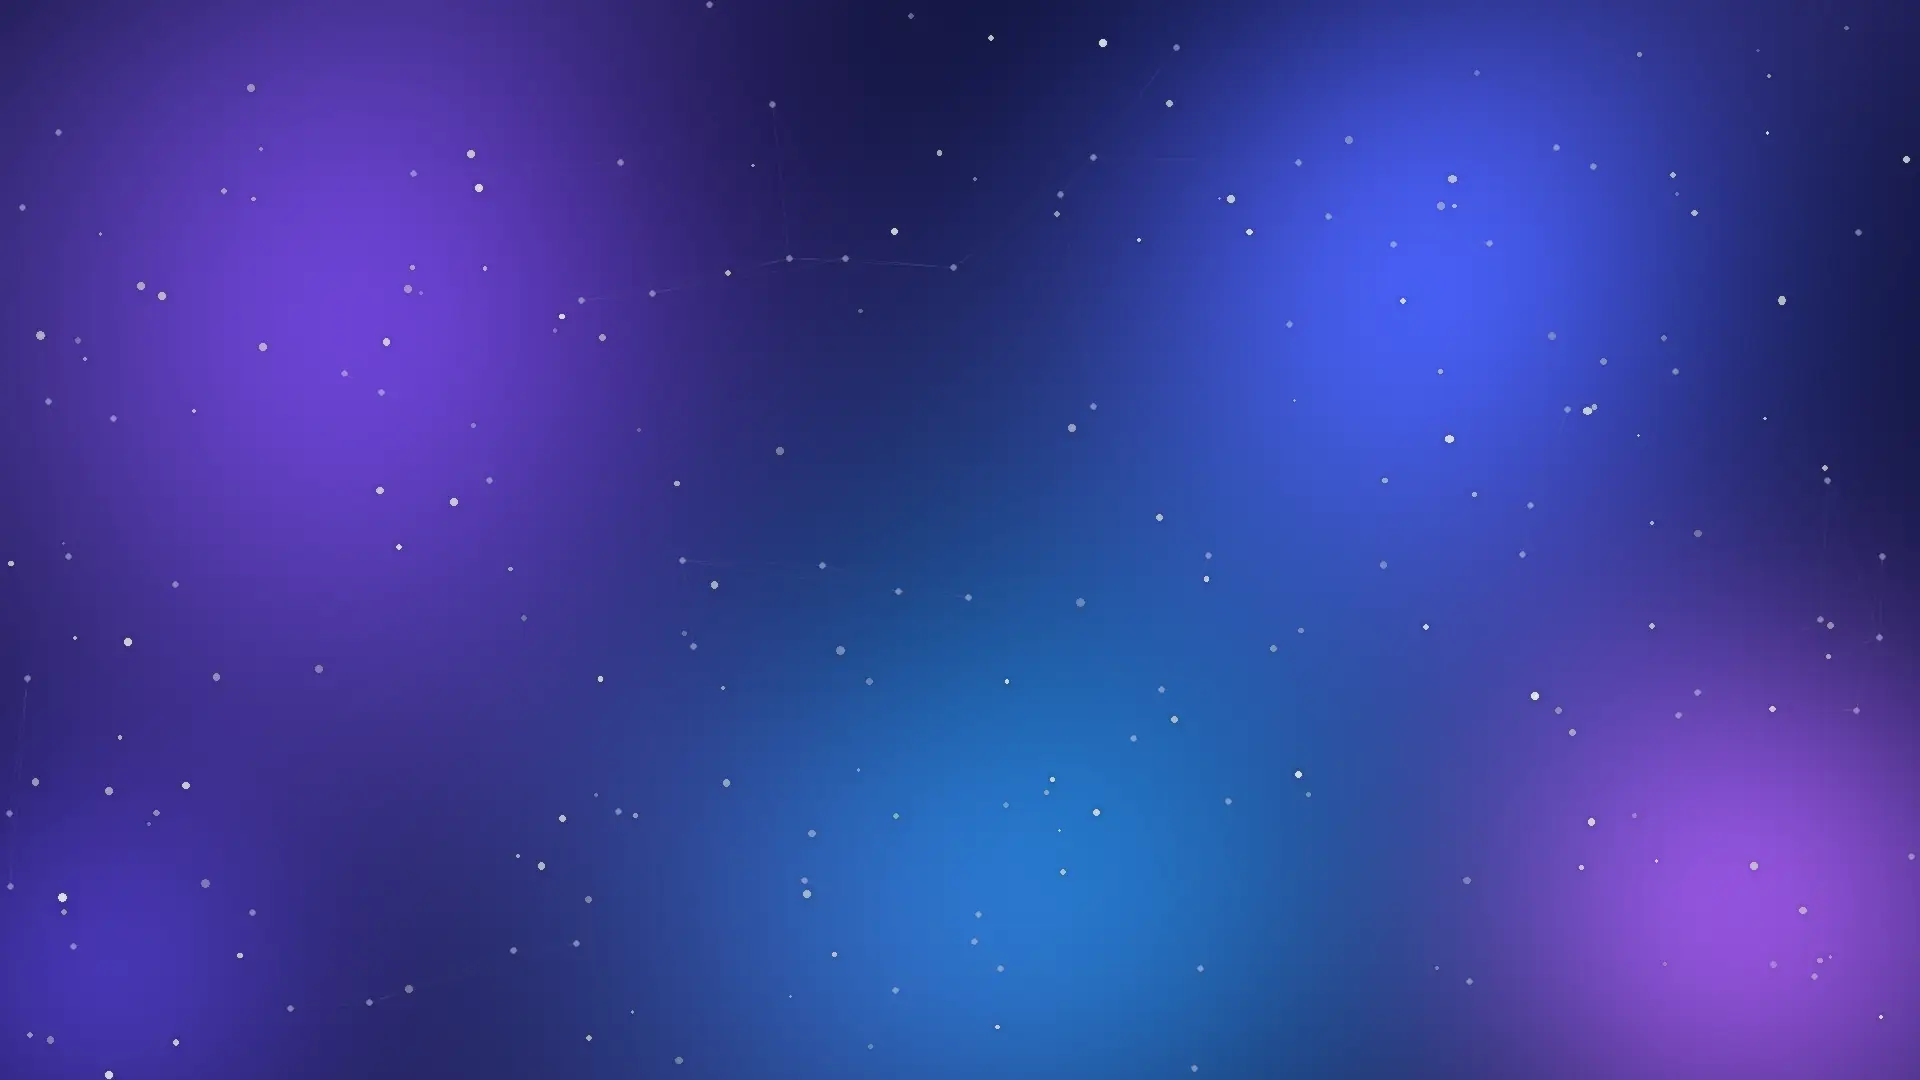
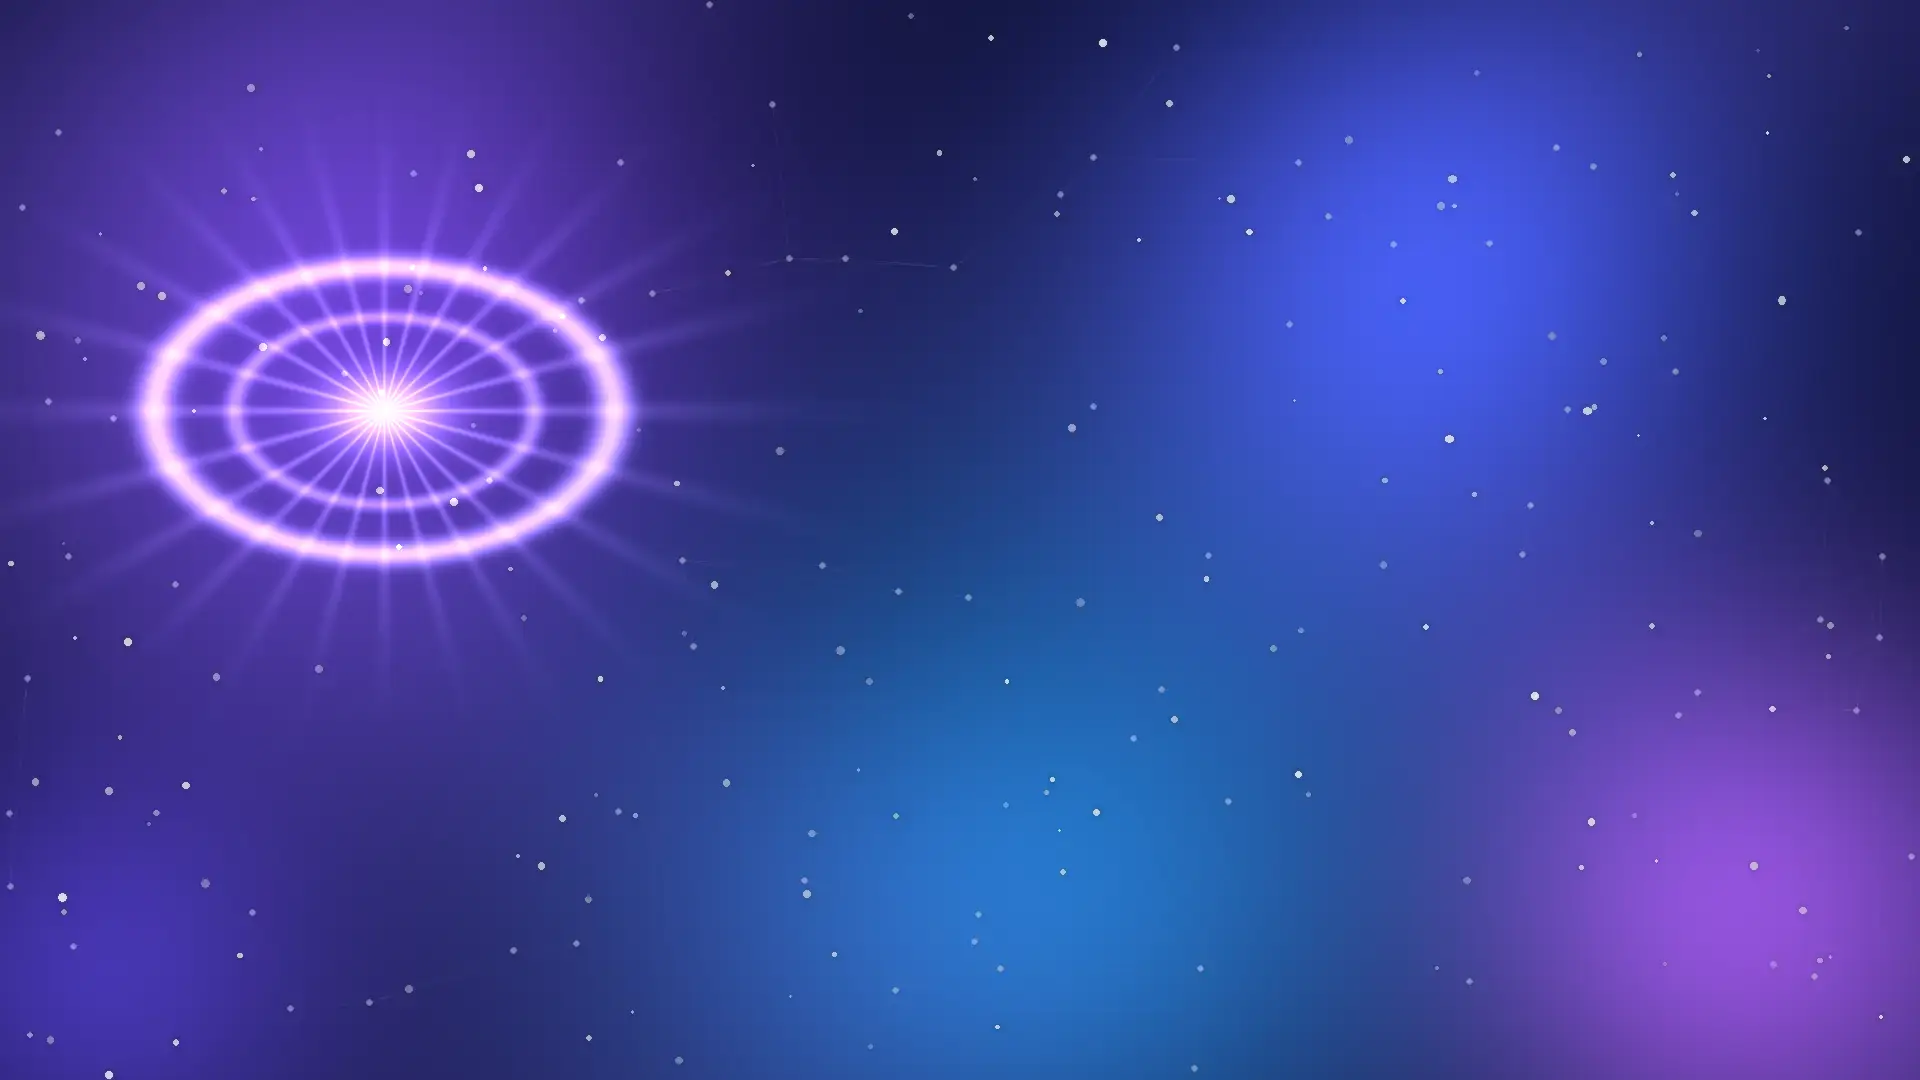
Generator hero: eye-of-light nebula art

Changed region(s): [[0.0625, 0.2139, 0.3438, 0.55]]

diff --git a/generate.css b/generate.css
@@ -17,7 +17,7 @@ html[data-theme=dark] .ig-out img{background:var(--soft)}
 html[data-theme=dark] .ig-cta{background:var(--accent-soft)}
 
 /* Full-page generator hero (generate.html only; scoped to .gen-hero) */
-.gen-hero{position:relative;margin:8px 0 24px;padding:56px 32px;border-radius:20px;overflow:hidden;background:radial-gradient(circle at 70% 30%,rgba(255,255,255,.18) 0 2px,transparent 3px) 0 0/140px 140px,radial-gradient(rgba(255,255,255,.22) 1px,transparent 1.6px) 0 0/22px 22px,linear-gradient(135deg,transparent 40%,rgba(255,255,255,.06) 40% 41%,transparent 41%) 0 0/90px 90px,#1c1f5a url(assets/gen-bg.webp) center/cover no-repeat;isolation:isolate}
+.gen-hero{position:relative;margin:8px 0 24px;padding:56px 32px;border-radius:20px;overflow:hidden;background:radial-gradient(circle at 70% 30%,rgba(255,255,255,.18) 0 2px,transparent 3px) 0 0/140px 140px,radial-gradient(rgba(255,255,255,.22) 1px,transparent 1.6px) 0 0/22px 22px,linear-gradient(135deg,transparent 40%,rgba(255,255,255,.06) 40% 41%,transparent 41%) 0 0/90px 90px,#1c1f5a url(assets/gen-bg.webp?v=2) center/cover no-repeat;isolation:isolate}
 .gen-hero::before{content:"";position:absolute;inset:0;z-index:-1;background:linear-gradient(180deg,rgba(255,255,255,.55) 0%,rgba(255,255,255,.18) 55%,rgba(255,255,255,0) 100%)}
 html[data-theme=dark] .gen-hero::before{background:linear-gradient(180deg,rgba(10,13,35,.72),rgba(10,13,35,.45))}
 .gen-card{max-width:760px;margin:0 auto;padding:28px;border-radius:16px;background:rgba(255,255,255,.72);-webkit-backdrop-filter:blur(14px) saturate(140%);backdrop-filter:blur(14px) saturate(140%);border:1px solid rgba(255,255,255,.6);box-shadow:0 12px 40px rgba(30,27,90,.25)}

diff --git a/generate.html b/generate.html
@@ -12,7 +12,7 @@
 <title>Free AI Image Generator: No Sign-up | AgentScout</title>
 <meta name="description" content="Free AI image generator with no sign-up: type a prompt and get an image in seconds. Powered by FLUX.1 [schnell] (Apache 2.0), so you can use your images however you like.">
 <link rel="canonical" href="https://clampdown-web.github.io/agentscout/generate.html">
-<link rel="stylesheet" href="generate.css?v=202610162110">
+<link rel="stylesheet" href="generate.css?v=202610162120">
 </head><body>
 <nav><div class="wrap">
   <a class="logo" href="index.html"><img src="logo-wordmark.svg" alt="AgentScout" width="168" height="32"></a><button class="themebtn" type="button" aria-label="Toggle dark mode" title="Toggle dark mode" onclick="asToggleTheme()"><span class="moon" aria-hidden="true">☾</span><span class="sun" aria-hidden="true">☀</span></button>
